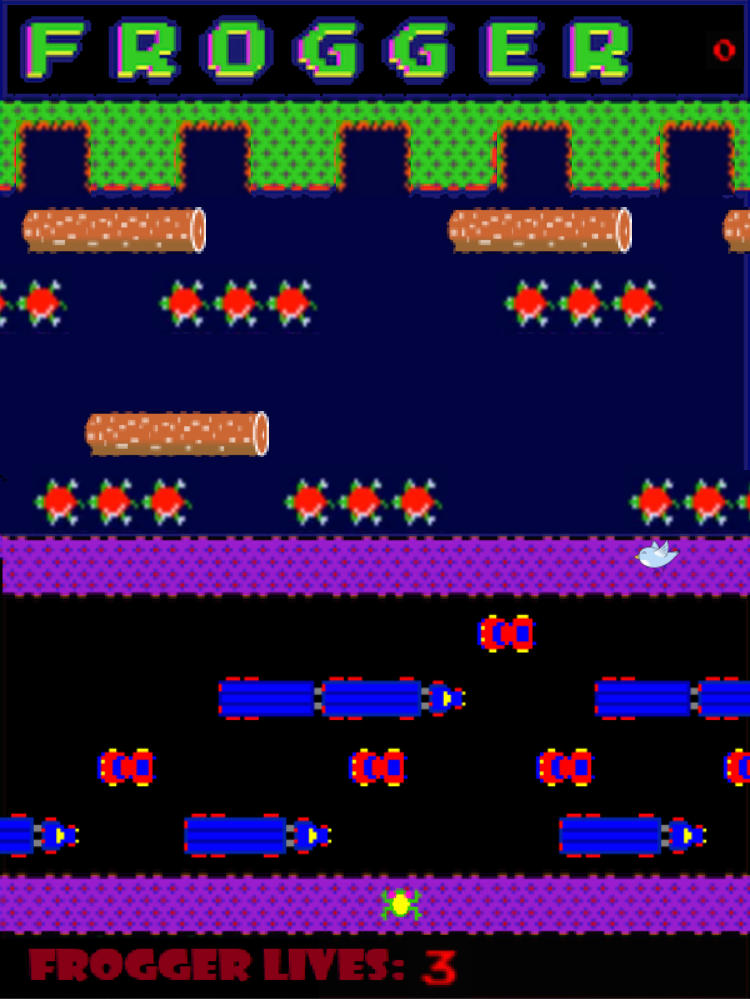
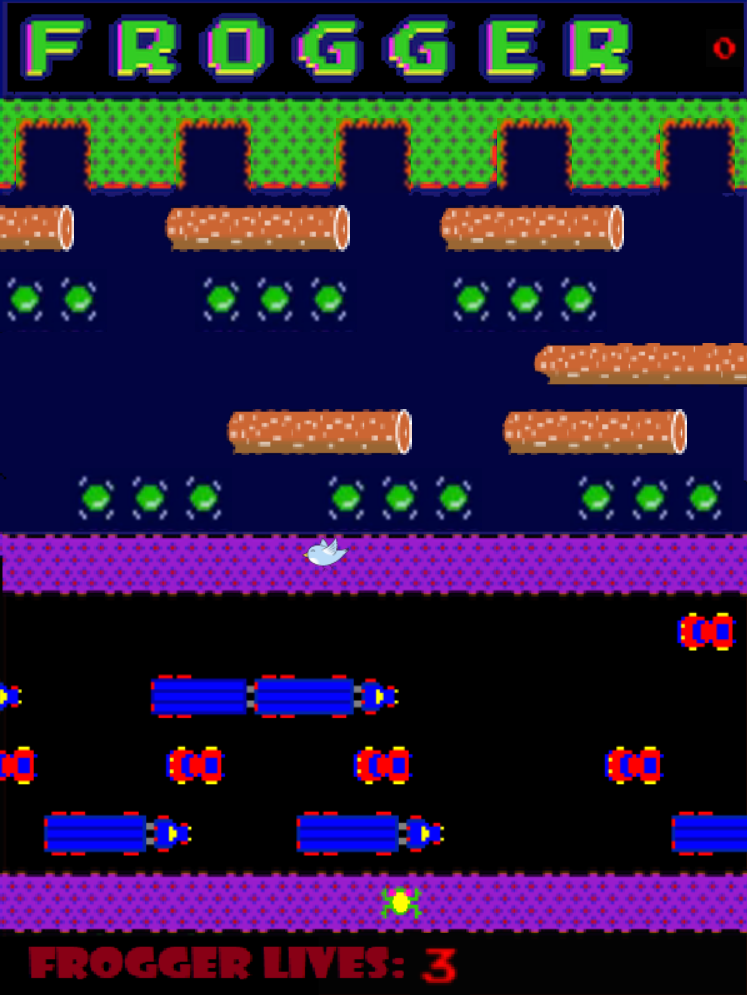
further additions in readme needed

diff --git a/README.md b/README.md
@@ -25,9 +25,11 @@ Two type of Highscores were implemented one for the overall score of the level b
 
 ### Further Levels
 Further level implementation was allowed once the main class was refactored to put the level being played into an abstract class that could be overridden to alter the game.
+
+Image below shows the new rendition of a bird added and each turtle being a wetTurtle
 ![Frogger](src/main/resources/Furtherlevels.PNG)
 ### JUnit
-Twenty Eight JUnit Tests added, For example:
+JUnit Tests include:
 ~~~~
 1) Keypad pressed tested to see frogger moves properly
 2) Checks whether objects in the game have been set properly and move
@@ -38,7 +40,8 @@ Twenty Eight JUnit Tests added, For example:
 6) Bubblesort in ordering highscores tested
 7) Boundary tests written
 8) Checking instances have been made properly
-
+9) Checks touching water causes death
+   etc..
 ~~~~
 ### Start Menu
 ![Frogger](src/main/resources/StartScreenReadMe.PNG)
@@ -46,7 +49,9 @@ Twenty Eight JUnit Tests added, For example:
 ### Other Additions:
 ~~~~
 1) Frogger Lives added
-2) 
+2) Made WetTurtle extend Turtle instead of Actor
+3) Encapsulated fields especially those used for tests
+4) CSS added to alerts and buttons
 ~~~~
 ## Refactoring
 ### Maven
